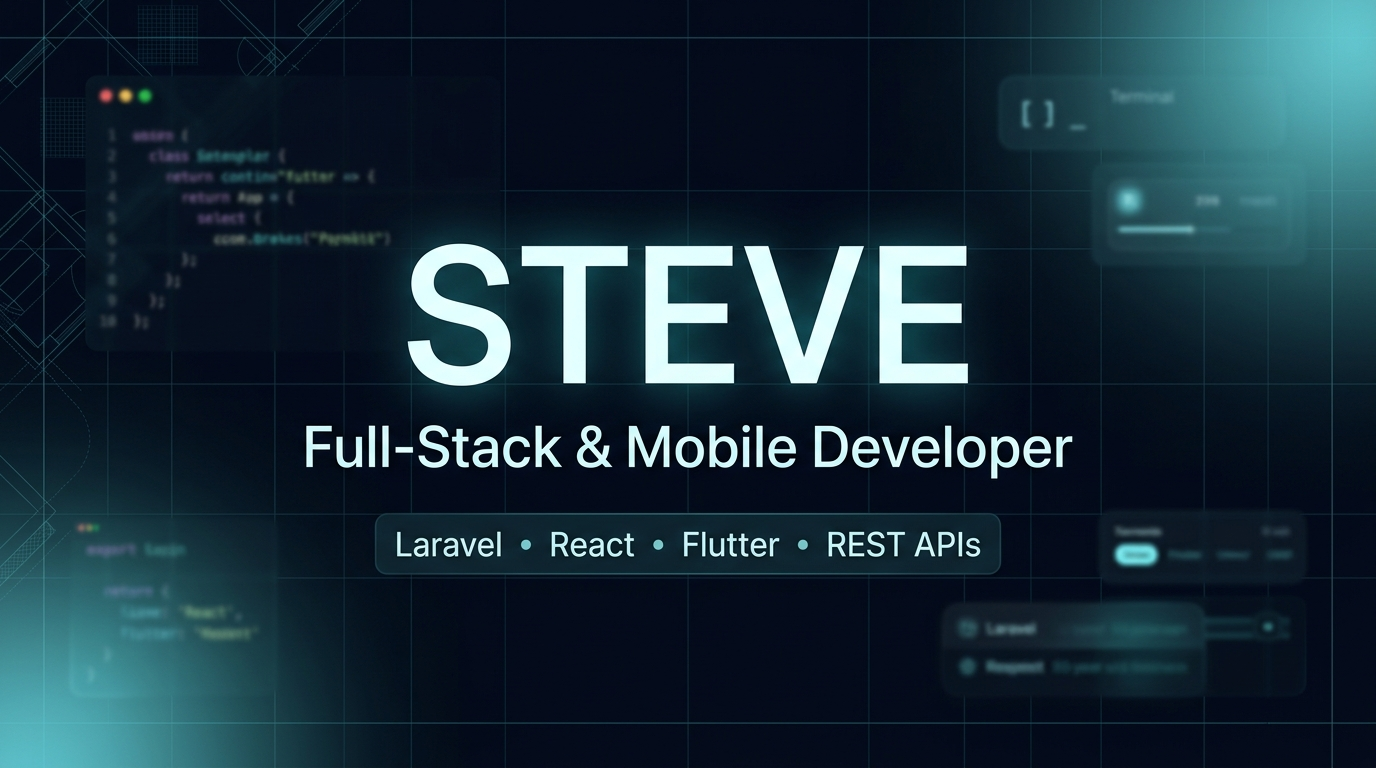
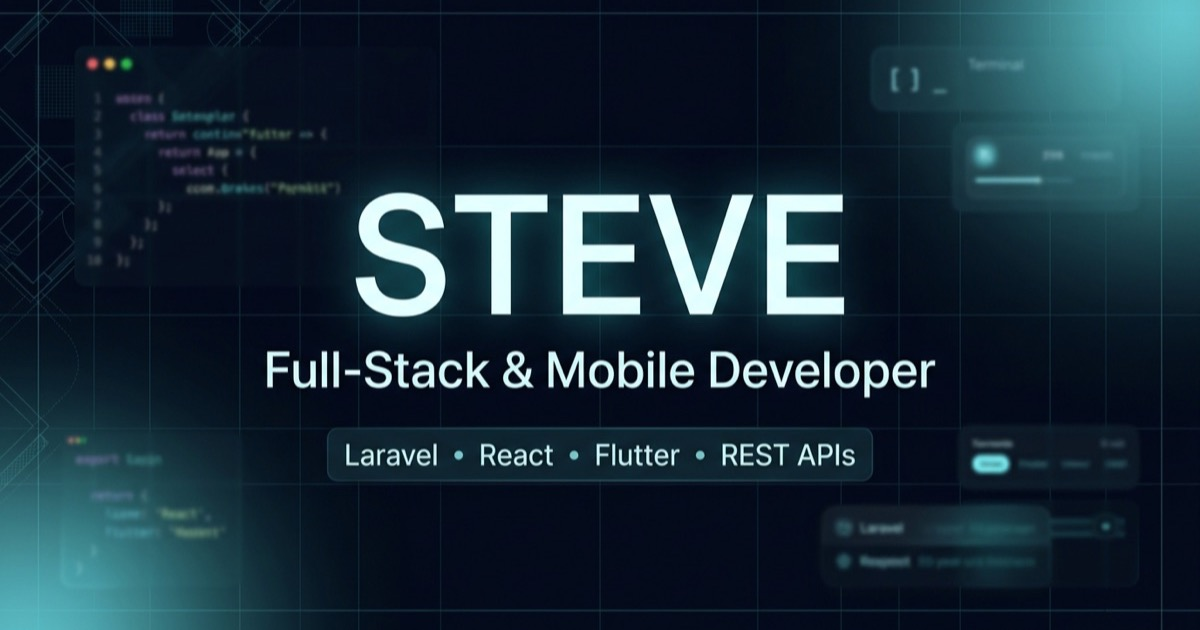
chore: update Open Graph meta tags, canonical URL, and social preview images

diff --git a/index.html b/index.html
@@ -29,26 +29,28 @@
   </script>
   <meta name="apple-mobile-web-app-status-bar-style" content="black-translucent" />
 
+  <link rel="canonical" href="https://portfolio.steve-dev.site/" />
+
   <!-- Open Graph / Facebook / LinkedIn / WhatsApp / Telegram -->
   <meta property="og:type" content="website" />
-  <meta property="og:url" content="https://portfolio.steve-dev.site" />
+  <meta property="og:url" content="https://portfolio.steve-dev.site/" />
   <meta property="og:site_name" content="Steve Portfolio" />
   <meta property="og:title" content="Steve | Full-Stack & Mobile Developer" />
   <meta property="og:description" content="Portfolio of Steve, Full-Stack Developer and Mobile Engineer specializing in Laravel, React, Flutter, and scalable web architectures." />
-  <meta property="og:image" content="/og-image.jpg" />
-  <meta property="og:image:secure_url" content="/og-image.jpg" />
+  <meta property="og:image" content="https://portfolio.steve-dev.site/og-image.jpg" />
+  <meta property="og:image:secure_url" content="https://portfolio.steve-dev.site/og-image.jpg" />
   <meta property="og:image:type" content="image/jpeg" />
-  <meta property="og:image:width" content="1376" />
-  <meta property="og:image:height" content="768" />
+  <meta property="og:image:width" content="1200" />
+  <meta property="og:image:height" content="630" />
   <meta property="og:image:alt" content="Steve - Full-Stack & Mobile Developer Portfolio" />
   <meta property="og:locale" content="en_US" />
 
   <!-- Twitter / X -->
   <meta name="twitter:card" content="summary_large_image" />
-  <meta name="twitter:url" content="https://portfolio.steve-dev.site" />
+  <meta name="twitter:url" content="https://portfolio.steve-dev.site/" />
   <meta name="twitter:title" content="Steve | Full-Stack & Mobile Developer" />
   <meta name="twitter:description" content="Building scalable web systems, clean REST APIs, and fluid cross-platform mobile apps with Laravel, React, and Flutter." />
-  <meta name="twitter:image" content="/og-image.jpg" />
+  <meta name="twitter:image" content="https://portfolio.steve-dev.site/og-image.jpg" />
   <meta name="twitter:image:alt" content="Steve - Full-Stack & Mobile Developer Portfolio" />
 
   <!-- DNS Prefetch & Preconnect for External Assets -->
